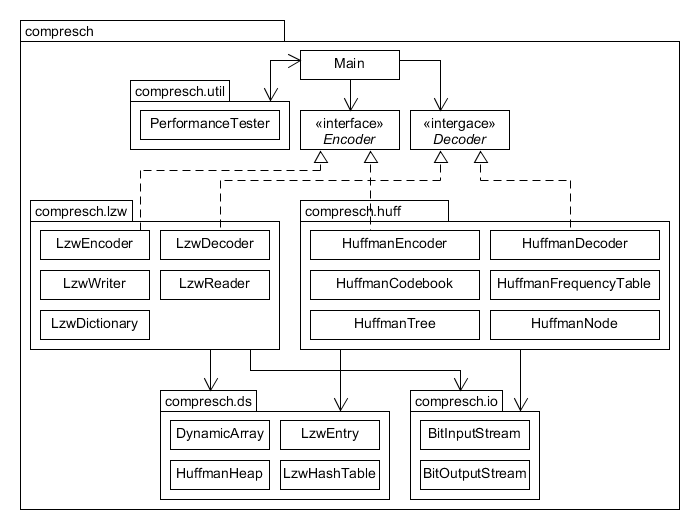
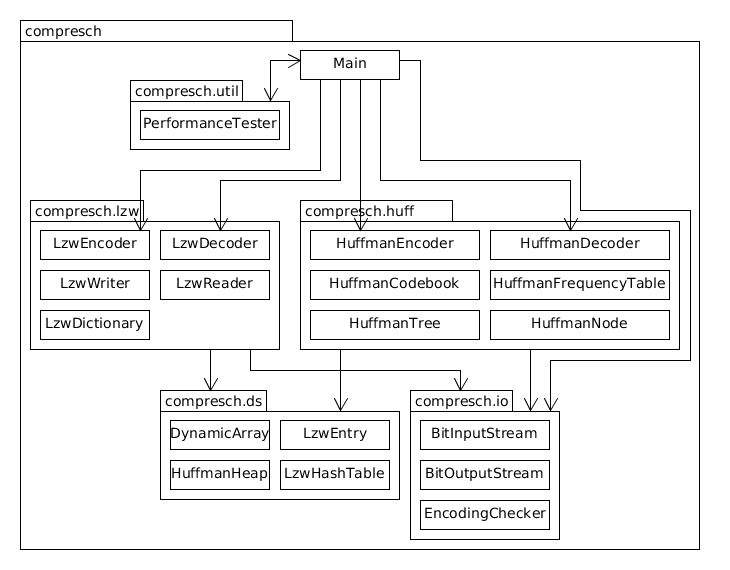
week5 done

Changed region(s): [[0.03, 0.0302, 0.96, 0.966]]

diff --git a/docs/WEEK5.md b/docs/WEEK5.md
@@ -1,0 +1,28 @@
+# Week 5
+
+## What have I done?
+* Documentation and some additional bechmark testing
+* java.io.* has been wrapped deeper
+* Encoders and decoders have been refactored to be static
+* Lempel-Ziv-Welch has been programmed to support dictionary lengths in powers of two in range [512, 65536]
+* Documentation has been enhanced
+
+## How I have progressed?
+* Lots of refactoring for code programmed earlier
+* Some documentation
+* Feature addition for Lempel-Ziv-Welch compression with user specified dictionary size.
+
+## What did I learn?
+Refactoring already written code and tests is very tedious.
+
+## Any troubles?
+Nothing major or even minor.
+
+## Plans for next week?
+* Lots of refactoring, polishing and documentation.
+* No additional features will be implemented anymore. Functionality is considered ready now.
+
+## Hours
+* Programming and refactoring 8h
+* Documenting 2h
+* Peer review 2h

diff --git a/docs/02-IMPLEMENTATION.md b/docs/02-IMPLEMENTATION.md
@@ -37,6 +37,8 @@ Lempel-Ziv-Welch read variable length symbols from input producing fixed length 
 
 **BitInputStream** uses *java.io.ByteInputStream* to read variable length bit sequences from input by using caching of bits to be read.
 
+**EncodingChecker** is tool for checking encoding of supplied file and in case of Lempel-Ziv-Welch compression also dictionary size.
+
 ## Data structures
 **DynamicArray** is implemented using Java generics. It is an ordinary dynamically resized array for every kind of object type. It also implements Iterable<T> interface so it can be used via for-each statement.
 
